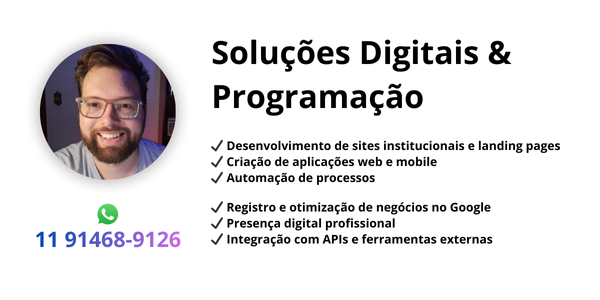
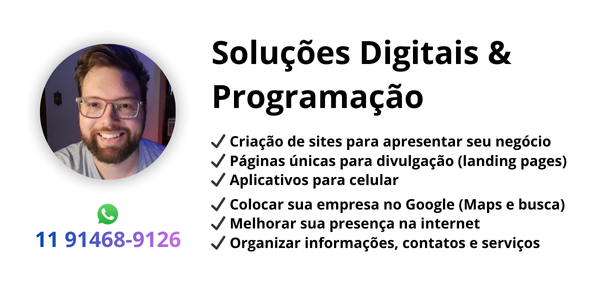
ajuste de texto, e opengraph

Changed region(s): [[0.33, 0.66, 0.96, 0.84], [0.33, 0.45, 0.96, 0.63]]

diff --git a/index.html b/index.html
@@ -183,34 +183,37 @@
     </header>
 
     <section>
-      <h2>O que eu faço</h2>
-      <ul>
-        <li>✔ Desenvolvimento de sites institucionais e landing pages</li>
-        <li>✔ Criação de aplicações web e mobile</li>
-        <li>✔ Automação de processos e scripts sob medida</li>
-        <li>✔ Produtos digitais e soluções técnicas personalizadas</li>
-        <li>✔ Correção de bugs e melhorias em sistemas existentes</li>
-      </ul>
-    </section>
+        <h2>O que eu faço</h2>
+            <ul>
+                <li>✔ Criação de sites para apresentar seu negócio</li>
+                <li>✔ Páginas únicas para divulgação (landing pages)</li>
+                <li>✔ Aplicativos para celular</li>
+                <li>✔ Ajustes, correções e melhorias em sites que já existem</li>
+                <li>✔ Ajuda para resolver problemas técnicos</li>
+            </ul>
+        </section>
 
-    <section>
-      <h2>Soluções para negócios</h2>
-      <ul>
-        <li>✔ Registro e otimização de negócios no Google</li>
-        <li>✔ Presença digital profissional</li>
-        <li>✔ Integração com APIs e ferramentas externas</li>
-        <li>✔ Estrutura técnica para crescimento futuro</li>
-      </ul>
-    </section>
 
-    <section class="cta">
-      <h2>Contato direto</h2>
-      <p>Resposta rápida. Escopo claro. Soluções práticas.</p>
-      <a href="https://wa.me/5511914689126" target="_blank">Falar no WhatsApp</a>
-    </section>
+        <section>
+            <h2>Soluções para negócios</h2>
+            <ul>
+                <li>✔ Colocar sua empresa no Google (Maps e busca)</li>
+                <li>✔ Melhorar sua presença na internet</li>
+                <li>✔ Organizar informações, contatos e serviços</li>
+                <li>✔ Preparar seu site para crescer no futuro</li>
+            </ul>
+        </section>
+
+
+        <section class="cta">
+            <h2>Contato direto</h2>
+            <p>Resposta rápida. Escopo claro. Soluções práticas.</p>
+            <a href="https://wa.me/5511914689126" target="_blank">Falar no WhatsApp</a>
+        </section>
+
 
     <footer>
-      © 2026 • Soluções Digitais
+    © 2026 • Soluções Digitais
     </footer>
 
   </main>
